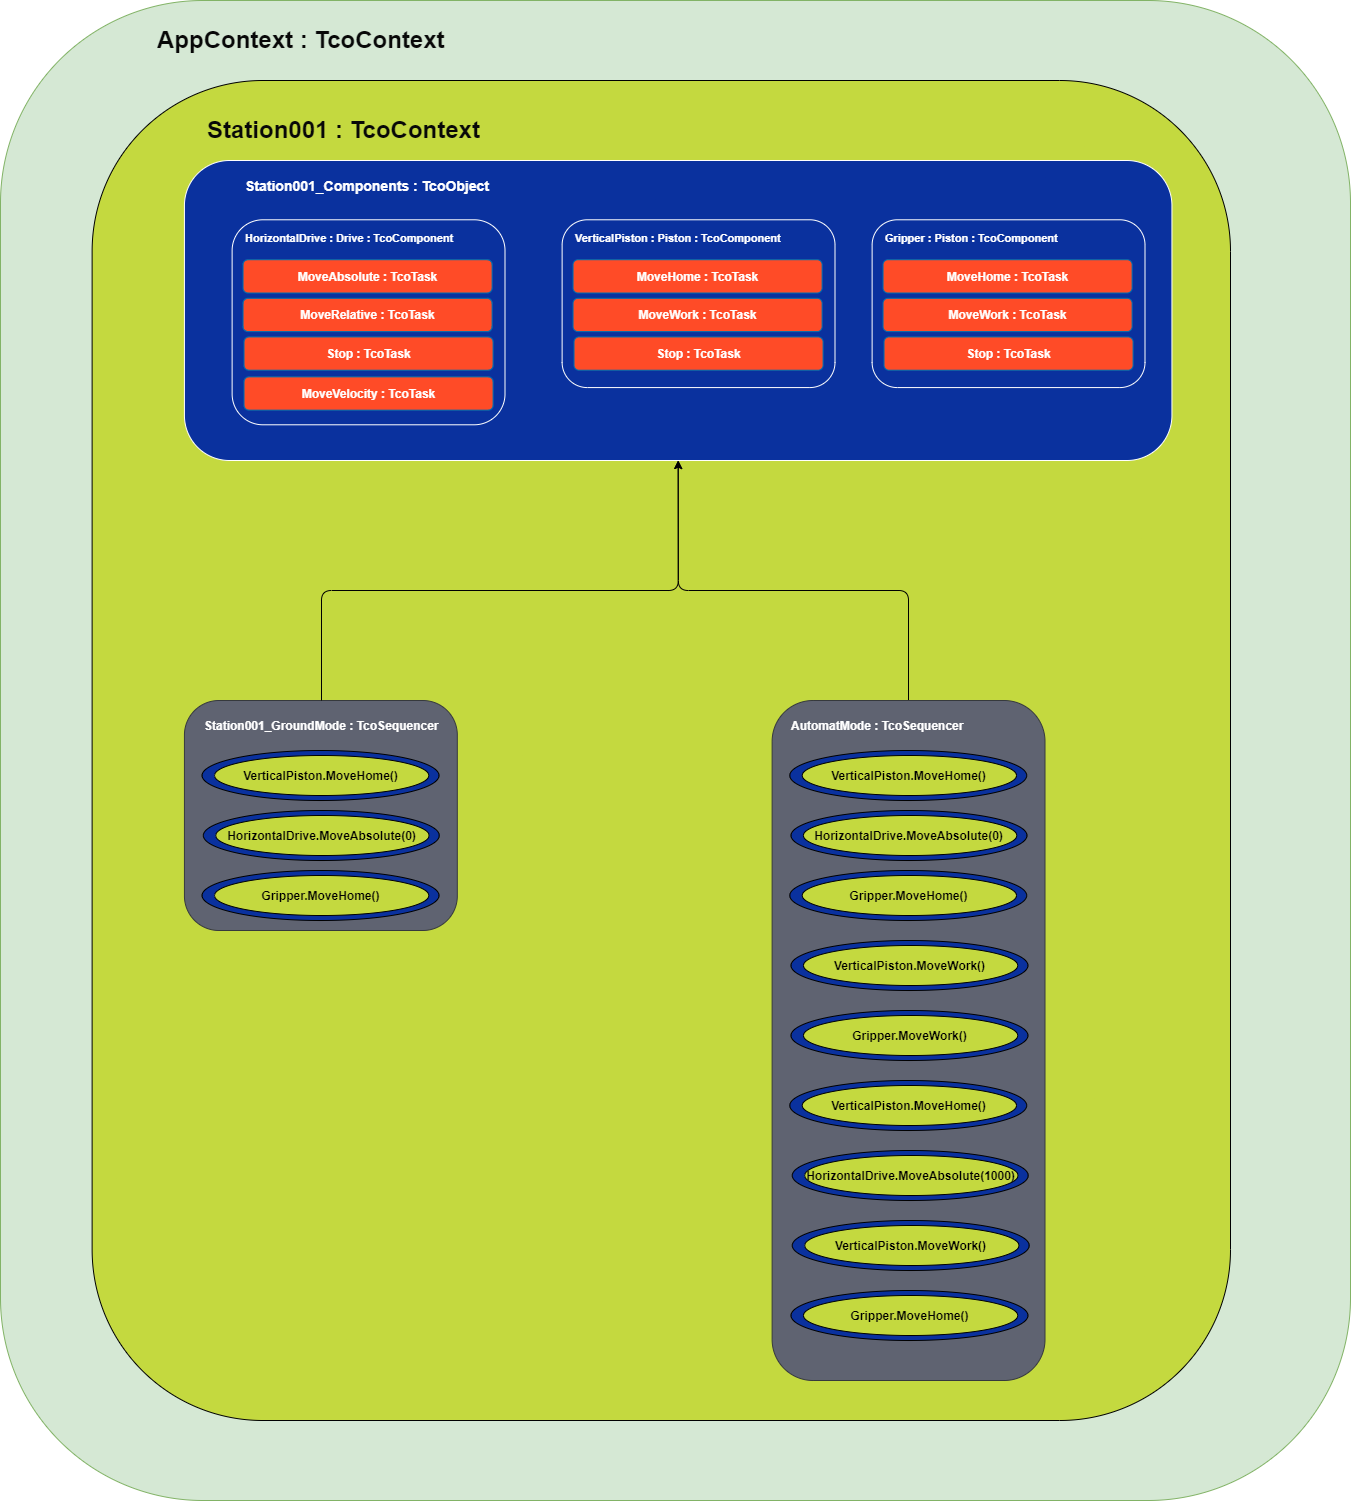
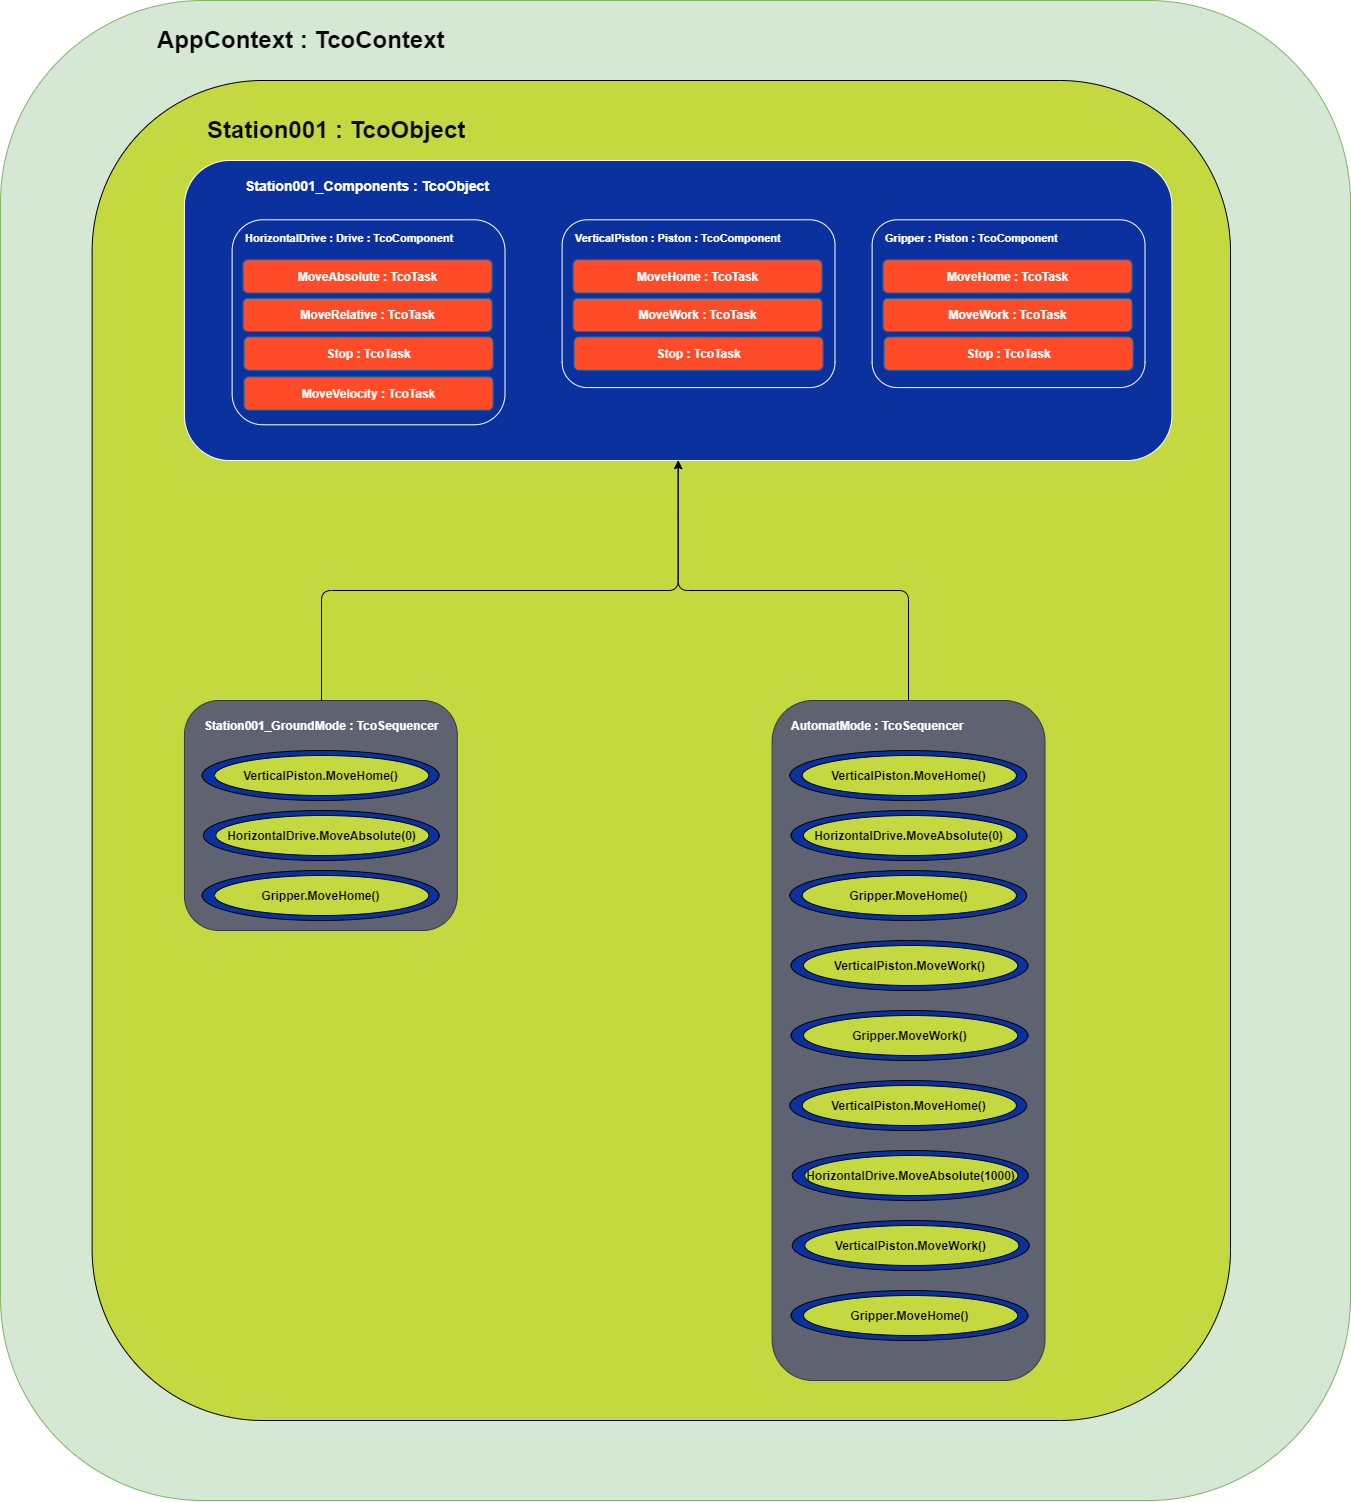
asp

diff --git a/articles/TcOpenFramework/application.md b/articles/TcOpenFramework/application.md
@@ -1,9 +1,10 @@
 # TcOpen Framework application
 
-TcOpen framework provides building blocks for creating components for real-world applications (Pistons, Driver, Robots, Vision systems, etc.). It also contains a series of classes for writing applications using more advanced techniques known from software engineering. TcOpen is crafted in the OOP paradigm and takes full advantage of object-oriented design allowed by CoDeSys/TwinCAT 3 implementation of IEC-61131-3.
+TcOpen framework provides blocks for building industrial applications and for creating reusable software components for various devices like Pistons, Drives, Robots, Vision systems, etc.
+
+Part of the framework is a series of classes/blocks for crafting applications using advanced techniques known from software engineering. TcOpen is created in the OOP paradigm and takes full advantage of object-oriented design allowed by CoDeSys/TwinCAT 3 implementation of IEC-61131-3.
 
 The ultimate goal of this initiative is to provide automation engineers with **well-designed**, **testable**, **scalable**, and **reusable** blocks to facilitate the development, commissioning, and maintainability of the industrial application software.
-
 
 ## TcOpen application dissection
 
@@ -11,23 +12,27 @@ The following diagram shows schematics of a simple TcOpen application. The stati
 
 ![TcOpenApplicationOverview.png](TcOpenApplicationOverview.png)
 
-The [components](#Components) are encapsulated into a single structure, ```Station001_Components```.
+The blocks of an TcOpen application require to be nested into a root block called [Context]((#Context)) that derives from ```TcoContext``` or implements ```ITcoContext``` interface. In our case, it is ```AppContext``` block.
 
-The blocks of an TcOpen application requires to be nested into a root block called [Context]((#Context)) that derives from ```TcoContext``` or implements ```ITcoContext``` interface. In our case, it is ```Station001``` block.
+The next level is ```Station001``` that derives form [TcoObject](#Object) (about TcoObject later).
 
-Besides components, the station contains two [Sequencers](#Sequencer), ```Station001_GroundMode``` that brings the manipulator to the ground state (home positioning), and ```Station001_AutomatMode``` that performs the manipulator's activities.
+The [components](#Components) are encapsulated into a single structure, ```Station001_Components``` (HorizontalDrive, VerticalPiston, Gripper).
 
-The components (Drive, Piston) have a set of tasks that can perform (MoveHome, MoveAbsolute, etc.). All tasks derive from [TcoTask](#Task) within which the actions are running.
+Besides components, the station contains two [Sequencers](#Sequencer), ```Station001_GroundMode``` that brings the manipulator to the ground state (home positioning), and ```Station001_AutomatMode``` that performs the manipulator's activities in automatic mode.
 
-## TcoCore
+The components (Drive, Piston) have a set of tasks (MoveHome, MoveAbsolute, etc.). All tasks are or derive from [TcoTask](#Task) within which the actions are running.
+
+# TcoCore  library
 
 ```TcoCore``` library contains basic classes for building TcOpen applications (components, tasks management, coordination primitives). The default namespace for this library is ```TcoCore```. All types in this library have ```Tco``` prefix for classes and ```ITco``` and for interfaces.
 
-### Object (TcoObject : ITcoTask)
+## Object
+
+**(TcoObject : ITcoTask)**
 
 Each block in ```TcOpen``` framework should derive from ```TcoObject```. ```TcoObject``` provides access to [Context](#Context), reference to the parent object, identity (unique identifier across application), access to a messaging system, and other useful functions. Any ```TcoObject``` can post messages of different severity that can be captured and displayed in higher-level applications (HMI/SCADA). If we stretch our imagination, we can think of ```TcoObject``` as ```object``` in C# (all objects derive from ```System.Object```);
 
-**TcoObject construction (FB_init)**
+### TcoObject construction (FB_init)
 
 ```TcoObject``` must be constructed via ```FB_init``` method passing in a parameter of parent ```ITcoObject```; that is usualy another ```TcoObject``` or a ```TcoContext``` eventualy other type that implements ```ITcoObject``` interface.
 
@@ -43,6 +48,10 @@ where ```THIS^``` is of ```ITcoObject```.
 
 ---------------------------
 
+### Messenger
+
+```TcoObject``` implements system for posting messages. Each ```TcoObject``` contains single message holder ```Mime``` or Most Important Message. The message will be replaced by other message only when incomming message is of higher seveverity. The messages can be posted directly from the user program (see example bellow).
+
 > An example implementation of station object
 
 ~~~ iecst
@@ -56,12 +65,12 @@ Messenger.Debug(CONCAT('Checking stations sesnors, context cycle ', ULINT_TO_STR
 Messenger.Debug(DT_TO_STRING(Context.Rtc.NowLocal()));
 
 IF(failed) THEN
+    // This message will appear as MIME (Most important message on the object Station001)
    Messenger.Error('Some sensor just failed'); 
 END_IF;    
 ~~~ 
 
-
-### Context
+## Context
 
 **(TcoContext : ITcoContext)**
 
@@ -124,7 +133,7 @@ _context.Run();
 ~~~
 
 
-### Task
+## Task
 
 **(TcoTask : ITcoTask)**
 
@@ -206,7 +215,7 @@ The task may finish in an ``` Error``` state. In that case, two recovery scenari
 1. Task's ```Restore``` method is called (task goes to ```Ready```state).
 1. ``` Restore``` from **on transition** methods. 
 
-### Components 
+## Components 
 
 **(TcoComponent : ITcoComponent)**
 
@@ -263,16 +272,14 @@ MoveWork := _MoveWorkTask.Invoke();
 ~~~
 
 
-Component must not contain any application-specific code to be reusable by other consumers.
-
 * Component must inherit from ```TcoCore.TcoComponent```
 * Components methods and properties should not be marked FINAL (sealed)
-* Component should implement appropriate ```INTERFACE``` for a public contract. The interface must not change during the lifetime of the particular major version of the library/framework.
+* Component should implement appropriate ```INTERFACE``` for a public contract. This is the interface that the consumers of the library will use to interact with the component. It represents the public contract that must not change during the lifetime of the particular major version of the library/framework. See [semantic versioning](https://semver.org/).
 * Component members must explicitly state access modifier for methods and properties (```PUBLIC```, ```INTERNAL```, ```PROTECTED```, or ```PRIVATE```)
 * Component should properly hide implementation details by marking methods preferably ```PROTECTED```.
-* Consider using the ```PRIVATE``` access modifier to prevent any access to that member if you deem it necessary. Be aware, though, that private members cannot be overridden by inheriting class. 
+* Consider using the ```PRIVATE``` access modifier to prevent any access to that member if you deem it necessary. Be aware, though, that private members cannot be overridden by a derived class.
 * If there are any testing methods in the same library with the component, these must be marked ```INTERNAL```.
-* Each action of the component should be implemented using the ```TcoTask``` class. The exception to this rule is the actions that require a single cycle to complete. Task's ```Invoke``` should be placed into a method with an appropriate name (MoveAbsolute, MoveHome, Measure).
+* Each action of the component should be implemented using the ```TcoTask``` class. There is no exception to this rule, even for the actions that require a single cycle to complete. Task's ```Invoke``` should be placed into a method with an appropriate name (MoveAbsolute, MoveHome, Measure).
 
 ### Cyclic call
 
@@ -284,7 +291,7 @@ The methods that perform actions **MUST** return ```TcoCore.ITcoTaskStatus```(ty
 
 ### Serviceablity
 
-```TcoComponent``` implements ```ITcoServiceable``` interface. Serviceablity means that the task's execution can be triggered from outside PLC environment (HMI/SCADA). All tasks of the declared in the component will became ```serviceable``` when ```TcoComponent.Service()``` method is called cyclically. The ```Service``` method is final and cannot be overriden; you can however place custom logic in the override of ```ServiceMode``` method its call is ensured by ```Service``` method.
+```TcoComponent``` implements ```ITcoServiceable``` interface. Serviceability means that the task's execution can be triggered from outside PLC environment (HMI/SCADA). All tasks of the declared in the component will became ```serviceable``` when ```TcoComponent.Service()``` method is called cyclically. The ```Service``` method is final and cannot be overridden; you can, however place custom logic in the override of ```ServiceMode``` method; its call is ensured by ```Service``` method.
 
 Serviceable mode would be typicaly used in manual mode of a unit.
 
